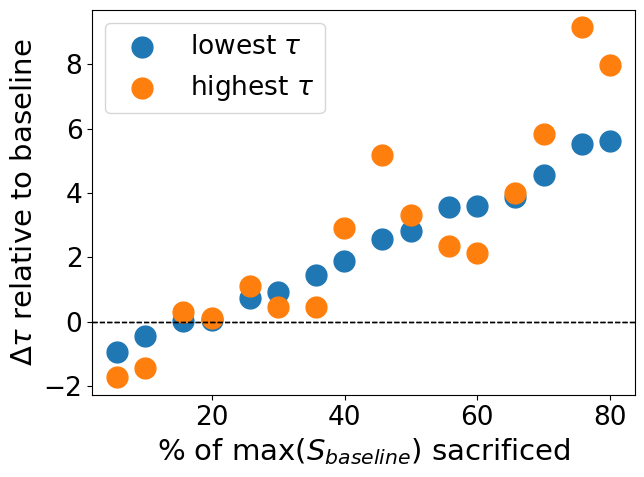
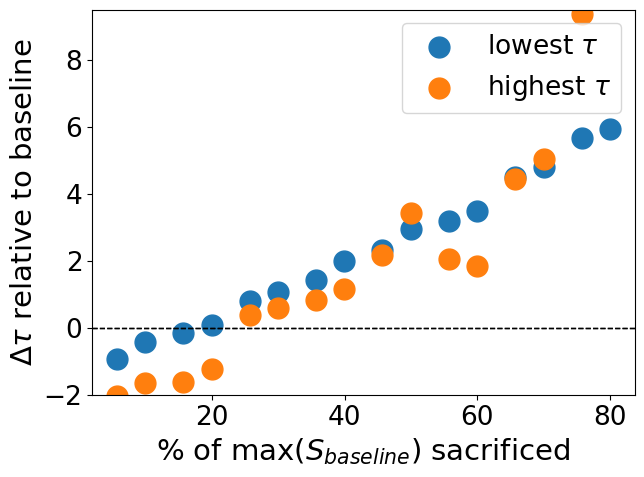
Increase uncertainty samples
- Doesn't change the results much

diff --git a/sensitivity/phase_mcsampled.py b/sensitivity/phase_mcsampled.py
@@ -123,7 +123,7 @@ else:
     #num_eps_combs = 225
     #num_eps_combs = 500
     #num_eps_combs = 1000
-    num_eps_combs = 2000
+    num_eps_combs = 6000
     np.save(pproc.data_dir + '/num_eps_combs.npy', num_eps_combs)
     num_combs_tot = num_strategy_combs * num_eps_combs
 
